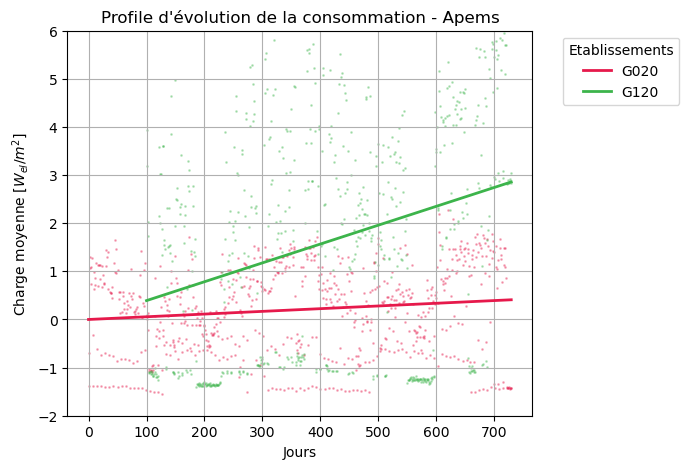
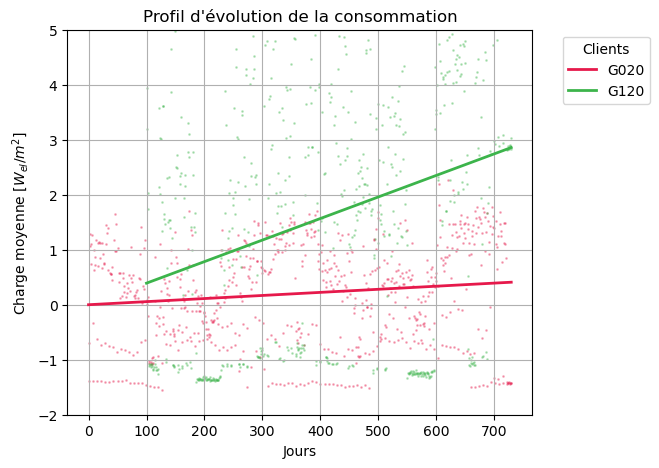
update of the model

Changed region(s): [[0.0, 0.0, 0.8194, 0.9573], [0.8194, 0.0598, 0.9712, 0.2393], [0.3945, 0.9573, 0.4856, 0.9872]]

diff --git a/app.py b/app.py
@@ -50,7 +50,7 @@ def plot_load_series(df, area):
     #df = df.set_index('Date')
     normalized_load = df['Charge [kW]'].copy()/area
     plt.figure(figsize=(10, 6))
-    plt.plot(df.index, normalized_load, marker='o', linestyle='-')
+    plt.bar(df.index, normalized_load)
     plt.title('Charge électrique moyenne annuelle')
     plt.xlabel("Jours de l'année")
     plt.ylabel('Charge électrique [$kW/m^2$]')

diff --git a/total_consumption.py b/total_consumption.py
@@ -105,7 +105,7 @@ def get_mean_load_kW(df, period="week"):
 #%% creating a benchmark over available years
 
 # parameters to change
-Typology = "Commune"
+Typology = "Apems"
 Period = "day"
 
 # smoothing calculations
